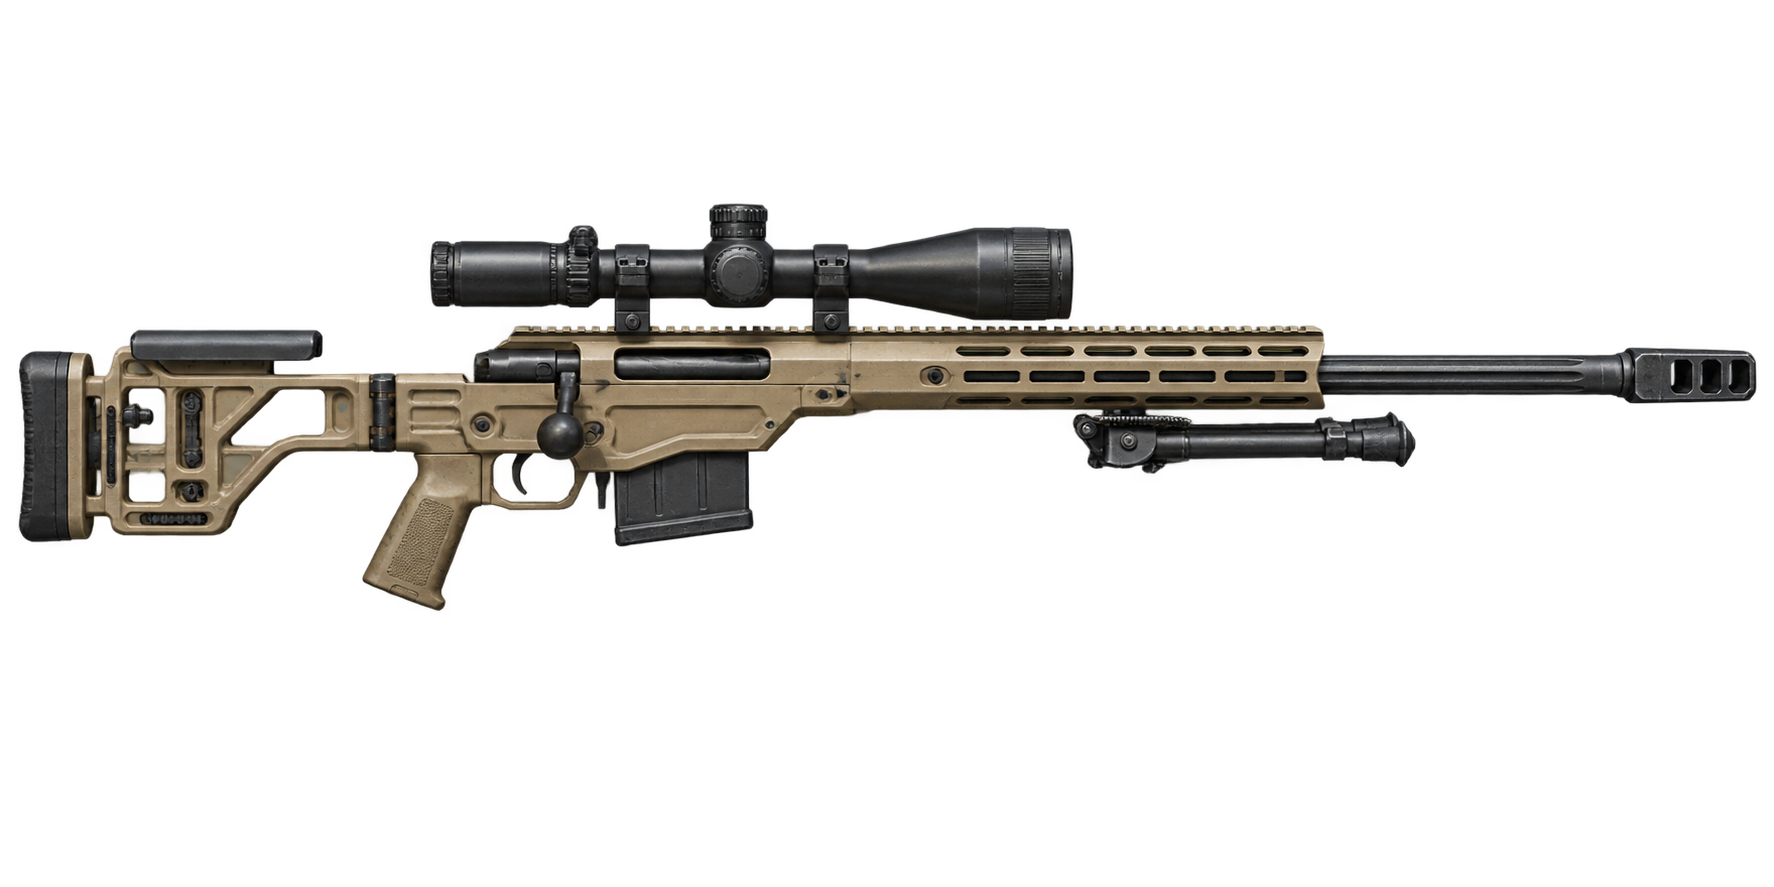
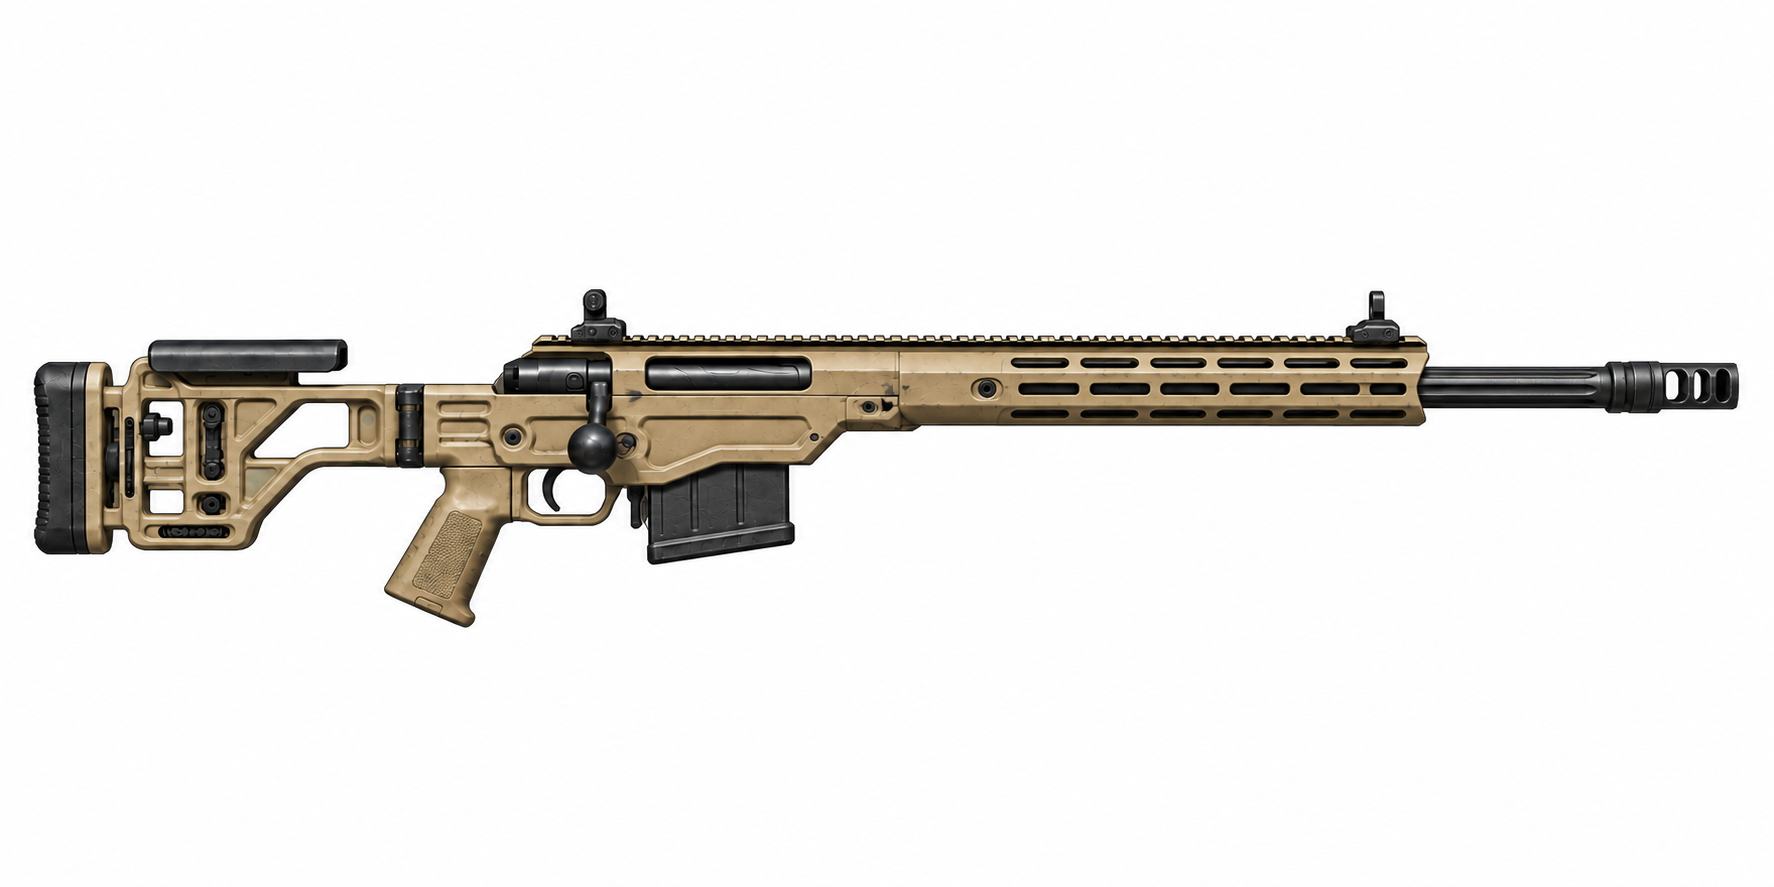
Show weapon artwork matching attached accessories

Changed region(s): [[0.0, 0.2131, 0.9921, 0.7001]]

diff --git a/card-visuals.js b/card-visuals.js
@@ -68,15 +68,20 @@ function fullRow(name,description,extra="",artwork=""){
 }
 
 const WEAPON_ART={"Escopeta Militar":"escopeta-militar.png","Pistola Ligera":"pistola-ligera.png","Arma CC Ligera":"arma-cc-ligera.png","Fusil de Asalto":"fusil-de-asalto.png","Arma CC Pesada":"arma-cc-pesada.png","Espada":"espada.png","Arma a dos manos":"arma-a-dos-manos.png","Katana o Mandoble":"katana-o-mandoble.png","Lanza":"lanza.png","Motosierra":"motosierra.png","Bastón":"baston.png","Ametralladora Ligera":"ametralladora.png","Arco de Caza":"arco.png","Arco de Poleas/Ballesta":"ballesta.png","Carabina":"carabina.png","Escopeta":"escopeta.png","Fusil .22":"fusil-22.png","Fusil de Caza":"fusil-caza.png","Fusil de Combate":"fusil-combate.png","Lanzallamas":"lanzallamas.png","Rifle Submarino":"rifle-submarino.png","Subfusil":"subfusil.png","Escopeta Recortada":"escopeta-recortada.png","Honda":"honda.png","Pistola .22":"pistola-22.png","Pistola Ametralladora":"pistola-ametralladora.png","Pistola de Clavos":"pistola-clavos.png","Pistola Pesada":"pistola-pesada.png"};
-function weaponArtwork(name,desc){
-  const file=WEAPON_ART[name];
+const WEAPON_ATTACHMENT_ART=new Set(["carabina-silenciador-visor-optico.png", "carabina-silenciador.png", "carabina-visor-optico.png", "fusil-22-mira-telescopica.png", "fusil-22-silenciador-mira-telescopica.png", "fusil-22-silenciador.png", "fusil-caza-mira-telescopica.png", "fusil-caza-silenciador-mira-telescopica.png", "fusil-caza-silenciador.png", "fusil-combate-mira-telescopica.png", "fusil-combate-silenciador-mira-telescopica.png", "fusil-combate-silenciador.png", "fusil-de-asalto-silenciador-visor-optico.png", "fusil-de-asalto-silenciador.png", "fusil-de-asalto-visor-optico.png", "pistola-22-silenciador.png", "pistola-ametralladora-silenciador.png", "pistola-ligera-silenciador.png", "pistola-pesada-silenciador.png", "subfusil-silenciador-visor-optico.png", "subfusil-silenciador.png", "subfusil-visor-optico.png"]);
+function weaponArtwork(name,desc,attachments=[]){
+  let file=WEAPON_ART[name];
+  const suffix=[['Silenciador','silenciador'],['Visor Óptico','visor-optico'],['Mira Telescópica','mira-telescopica']].filter(([item])=>attachments.includes(item)).map(([,slug])=>slug).join('-');
+  const variant=file&&suffix?file.replace('.png','-')+suffix+'.png':'';
+  if(WEAPON_ATTACHMENT_ART.has(variant)) file='attachments/'+variant;
+  else if(name==='Fusil de Combate') file+='?v=20260921-2';
   return file?'<span class="weapon-art" aria-hidden="true"><img src="assets/weapons/'+file+'" width="100" height="50" alt=""></span>':iconBadge(name,desc);
 }
 function weaponVisual(weapon,member){
   const desc=weaponRuleText(weapon); const p=parseWeaponProfile(weapon.name,desc); const ammo=ammoCount(weapon);
   const bayonet=["Fusil Militar","Fusil de Combate","Fusil de Asalto"].includes(weapon.name)?parseWeaponProfile("Arma CC Ligera"):null;
   const bayonetRow=bayonet?`<div class="visual-stat-table weapon-stats bayonet-stats"><div><span>Alcance</span><b>${escapeHtml(bayonet.range)}</b></div><div><span>Bono</span><b>${escapeHtml(bayonet.bonus)}</b></div><div><span>Daño</span><b>${escapeHtml(bayonet.damage)}</b></div><div><span>Dados</span><b>${escapeHtml(bayonet.dice)}</b></div><div class="special"><span>Especial</span><b>Bayoneta</b></div></div>`:"";
-  return `<div class="visual-item-card"><div class="visual-item-head${WEAPON_ART[weapon.name]?" illustrated-weapon":""}">${weaponArtwork(weapon.name,desc)}<div><b>${escapeHtml(weapon.name)}</b>${ammo?`<span>${ammo} proyectiles</span>`:""}</div></div><div class="visual-stat-table weapon-stats"><div><span>Alcance</span><b>${escapeHtml(p.range)}</b></div><div><span>Bono</span><b>${escapeHtml(p.bonus)}</b></div><div><span>Daño</span><b>${escapeHtml(p.damage)}</b></div><div><span>Dados</span><b>${escapeHtml(p.dice)}</b></div><div class="special"><span>Especial</span><b>${escapeHtml(p.special)}</b></div></div>${bayonetRow}${member?weaponAttachments(member,weapon).map(item=>fullRow(item,LAZARUS_DATA.gearText[item],"",gearArtwork(item))).join(""):""}${ammo?`<div class="ammo-counter" role="img" aria-label="${ammo} proyectiles">${'<svg class="ammo-bullet" viewBox="0 0 12 28" aria-hidden="true"><path d="M3 10V7Q3 3 6 1Q9 3 9 7V10M2 10H10V24H2ZM1 24H11V27H1Z"/></svg>'.repeat(ammo)}</div>`:""}</div>`;
+  return `<div class="visual-item-card"><div class="visual-item-head${WEAPON_ART[weapon.name]?" illustrated-weapon":""}">${weaponArtwork(weapon.name,desc,member?weaponAttachments(member,weapon):[])}<div><b>${escapeHtml(weapon.name)}</b>${ammo?`<span>${ammo} proyectiles</span>`:""}</div></div><div class="visual-stat-table weapon-stats"><div><span>Alcance</span><b>${escapeHtml(p.range)}</b></div><div><span>Bono</span><b>${escapeHtml(p.bonus)}</b></div><div><span>Daño</span><b>${escapeHtml(p.damage)}</b></div><div><span>Dados</span><b>${escapeHtml(p.dice)}</b></div><div class="special"><span>Especial</span><b>${escapeHtml(p.special)}</b></div></div>${bayonetRow}${member?weaponAttachments(member,weapon).map(item=>fullRow(item,LAZARUS_DATA.gearText[item],"",gearArtwork(item))).join(""):""}${ammo?`<div class="ammo-counter" role="img" aria-label="${ammo} proyectiles">${'<svg class="ammo-bullet" viewBox="0 0 12 28" aria-hidden="true"><path d="M3 10V7Q3 3 6 1Q9 3 9 7V10M2 10H10V24H2ZM1 24H11V27H1Z"/></svg>'.repeat(ammo)}</div>`:""}</div>`;
 }
 
 const PROTECTION_ART={"Protección ligera":"proteccion-ligera.png","Armadura primitiva":"armadura-primitiva.png","Blindaje I":"blindaje-i.png","Blindaje II":"blindaje-ii.png","Escudo de Mano":"escudo-mano.png","Escudo Balístico":"escudo-balistico.png"};

diff --git a/index.html b/index.html
@@ -34,7 +34,7 @@
   <script src="band-guard.js?v=20260913-3"></script>
   <script src="loadout-rules.js?v=20260920-4"></script>
   <script src="app.js?v=20260920-4"></script>
-  <script src="protection-layout.js?v=20260920-4"></script>
+  <script src="protection-layout.js?v=20260921-2"></script>
   <script src="approved-icons-part1.js?v=20260915-1"></script>
   <script src="approved-icons-part2.js?v=20260915-1"></script>
   <script src="approved-icons-part3.js?v=20260915-1"></script>

diff --git a/protection-layout.js b/protection-layout.js
@@ -128,6 +128,6 @@ render();
   css.href="card-visuals.css?v=20260920-4";
   document.head.appendChild(css);
   const script=document.createElement("script");
-  script.src="card-visuals.js?v=20260920-4";
+  script.src="card-visuals.js?v=20260921-2";
   document.body.appendChild(script);
 })();
